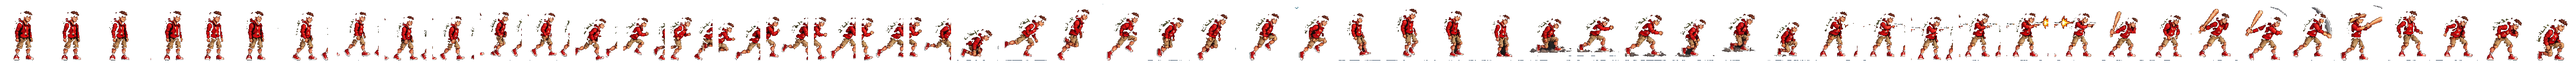
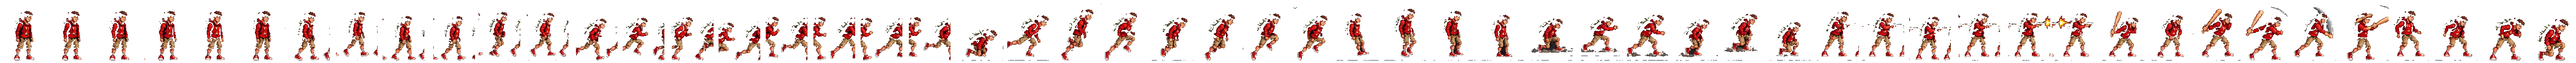
Add files via upload

diff --git a/index.html b/index.html
@@ -21,7 +21,7 @@ html,body{margin:0;width:100%;height:100%;overflow:hidden;background:#07090d;fon
 #player{position:absolute;z-index:12;width:96px;height:128px;overflow:hidden;
 background-image:url('alter_master_sheet.png');background-size:5184px 128px;background-repeat:no-repeat;
 background-position:0 0;image-rendering:pixelated;transform-origin:50% 100%;
-filter:drop-shadow(0 7px 5px #000b);will-change:left,top,background-position}
+filter:drop-shadow(0 7px 5px #000b);will-change:left,top,background-position;transition:filter .08s linear}
 #player.faceL{transform:scaleX(-1)}
 #player.damage{filter:brightness(1.7) saturate(.4) drop-shadow(0 7px 5px #000b)}
 #shadow{position:absolute;z-index:9;width:50px;height:11px;border-radius:50%;background:#0007;filter:blur(2px)}
@@ -53,7 +53,7 @@ filter:drop-shadow(0 7px 5px #000b);will-change:left,top,background-position}
 <div id="radioBox"><b class="cyan">47.3 FM — RADIO ECO</b><br><br><span id="line">Segnali deboli...</span><div class="wave"></div></div>
 <div id="joy"><div class="stick" id="stick"></div></div>
 <button id="radio" class="btn">📻</button><button id="jump" class="btn">SALTO</button><button id="shoot" class="btn">SPARO</button><button id="hit" class="btn">MAZZA</button>
-<div id="tag">CITTÀ SENZA NOME &nbsp;|&nbsp; GIORNO ??? &nbsp;|&nbsp; STAY ON THE AIR &nbsp; <span id="ver">v0.9.3.1 MASTER HOTFIX</span></div>
+<div id="tag">CITTÀ SENZA NOME &nbsp;|&nbsp; GIORNO ??? &nbsp;|&nbsp; STAY ON THE AIR &nbsp; <span id="ver">v0.9.4 ALTER MOTION POLISH</span></div>
 </div>
 <script>
 const game=document.querySelector('#game'),P=document.querySelector('#player'),SH=document.querySelector('#shadow');
@@ -74,7 +74,17 @@ const anim={
 };
 let af=0,acc=0;
 function setFrame(c){c=Math.max(0,Math.min(47,Math.floor(c)));P.style.backgroundPositionX=(-CELL*c)+'px';P.style.backgroundPositionY='0px'}
-function setState(s,ms=0){if(state!==s){state=s;af=0;acc=0}if(ms)stateUntil=performance.now()+ms}
+function setState(s,ms=0){
+  if(state!==s){
+    const prev=state;
+    state=s; af=0; acc=0;
+    P.dataset.prev=prev;
+    P.classList.add('blend');
+    clearTimeout(P._blendTimer);
+    P._blendTimer=setTimeout(()=>P.classList.remove('blend'),70);
+  }
+  if(ms) stateUntil=performance.now()+ms;
+}if(ms)stateUntil=performance.now()+ms}
 function animate(dt,now){
  if(stateUntil&&now>stateUntil){
    stateUntil=0;
@@ -91,15 +101,30 @@ function animate(dt,now){
  setFrame(a.f[af]);
 }
 function plats(){let g=game.getBoundingClientRect();return[...document.querySelectorAll('.platform')].map(e=>{let r=e.getBoundingClientRect();return{x:r.left-g.left,y:r.top-g.top,w:r.width,h:r.height}})}
-function collide(prevY){onGround=false;let fp=prevY+H,f=py+H;for(let p of plats()){let ox=px+W*.68>p.x&&px+W*.32<p.x+p.w;if(ox&&vy>=0&&fp<=p.y+8&&f>=p.y){py=p.y-H;vy=0;onGround=true;if(state==='fall'||state==='jump')setState('land',300);break}}let floor=game.clientHeight*.88;if(py+H>floor){py=floor-H;vy=0;onGround=true}}
+function collide(prevY){onGround=false;let fp=prevY+H,f=py+H;for(let p of plats()){let ox=px+W*.68>p.x&&px+W*.32<p.x+p.w;if(ox&&vy>=0&&fp<=p.y+8&&f>=p.y){py=p.y-H;vy=0;onGround=true;if(state==='fall'||state==='jump')setState('land',250);break}}let floor=game.clientHeight*.88;if(py+H>floor){py=floor-H;vy=0;onGround=true}}
 function update(now){let dt=Math.min((now-last)/1000,.032);last=now;
- if(!stateUntil||!['shoot','bat','damage','land'].includes(state)){vx=joyDir*MOVE;if(joyDir)face=joyDir}else vx*=.8;
+ if(!stateUntil||!['shoot','bat','damage','land'].includes(state)){
+   const target=joyDir*MOVE;
+   const accel=joyDir ? 1350 : 1900;
+   const diff=target-vx;
+   const step=Math.sign(diff)*Math.min(Math.abs(diff),accel*dt);
+   vx+=step;
+   if(joyDir)face=joyDir;
+ }else vx*=Math.pow(.18,dt);
  if(jumpQueued&&onGround&&!stateUntil){vy=JUMP;onGround=false;setState('jump');jumpQueued=false}else jumpQueued=false;
  let prevY=py;px+=vx*dt;py+=vy*dt;vy+=GRAV*dt;
  let min=65,max=game.clientWidth*.50;if(px<min)px=min;if(px>max){world+=px-max;px=max}
  collide(prevY);
- if(!stateUntil){if(!onGround)setState(vy<-120?'jump':vy<120?'air':'fall');else if(Math.abs(vx)>150)setState('run');else if(Math.abs(vx)>8)setState('walk');else setState('idle')}
- P.style.left=px+'px';P.style.top=py+'px';P.classList.toggle('faceL',face<0);
+ if(!stateUntil){
+   if(!onGround) setState(vy<-140?'jump':vy<100?'air':'fall');
+   else{
+     const sp=Math.abs(vx);
+     if(sp>175) setState('run');
+     else if(sp>22) setState('walk');
+     else setState('idle');
+   }
+ }
+ P.style.left=Math.round(px)+'px';P.style.top=Math.round(py)+'px';P.classList.toggle('faceL',face<0);
  SH.style.left=(px+W*.24)+'px';SH.style.top=(py+H-5)+'px';SH.style.opacity=onGround?'.7':'.2';
  /* FIX: move only background image, never the layer element itself */
  F.style.backgroundPositionX=(-world*.10)+'px';M.style.backgroundPositionX=(-world*.30)+'px';R.style.backgroundPositionX=(-world*.66)+'px';
@@ -111,8 +136,8 @@ J.addEventListener('touchstart',e=>{e.preventDefault();move(e)},{passive:false})
 document.querySelector('#jump').addEventListener('touchstart',e=>{e.preventDefault();jumpQueued=true},{passive:false});
 function muzzle(){let m=document.createElement('div');m.className='muzzle';m.style.left=(px+(face>0?W-5:-18))+'px';m.style.top=(py+55)+'px';game.appendChild(m);setTimeout(()=>m.remove(),80)}
 function bullet(){let b=document.createElement('div');b.className='projectile';let bx=px+(face>0?W-4:-12),by=py+62,t0=performance.now(),lt=t0;b.style.left=bx+'px';b.style.top=by+'px';game.appendChild(b);function go(t){let dt=Math.min((t-lt)/1000,.03);lt=t;bx+=face*760*dt;b.style.left=bx+'px';if(t-t0<1200&&bx>-30&&bx<game.clientWidth+30)requestAnimationFrame(go);else b.remove()}requestAnimationFrame(go)}
-document.querySelector('#shoot').addEventListener('touchstart',e=>{e.preventDefault();if(ammo<=0||stateUntil)return;ammo--;document.querySelector('#ammo').textContent=ammo+'/12';setState('shoot',340);muzzle();bullet()},{passive:false});
-document.querySelector('#hit').addEventListener('touchstart',e=>{e.preventDefault();if(stateUntil)return;setState('bat',380);let fx=document.createElement('div');fx.className='hitfx';fx.style.left=(px+(face>0?W-4:-46))+'px';fx.style.top=(py+38)+'px';game.appendChild(fx);fx.animate([{transform:'scale(.3)',opacity:1},{transform:'scale(1.3)',opacity:0}],{duration:280});setTimeout(()=>fx.remove(),290)},{passive:false});
+document.querySelector('#shoot').addEventListener('touchstart',e=>{e.preventDefault();if(ammo<=0||stateUntil)return;ammo--;document.querySelector('#ammo').textContent=ammo+'/12';setState('shoot',320);muzzle();bullet()},{passive:false});
+document.querySelector('#hit').addEventListener('touchstart',e=>{e.preventDefault();if(stateUntil)return;setState('bat',360);let fx=document.createElement('div');fx.className='hitfx';fx.style.left=(px+(face>0?W-4:-46))+'px';fx.style.top=(py+38)+'px';game.appendChild(fx);fx.animate([{transform:'scale(.3)',opacity:1},{transform:'scale(1.3)',opacity:0}],{duration:280});setTimeout(()=>fx.remove(),290)},{passive:false});
 let ro=false,li=0,lines=["Segnali deboli... ma sei ancora lì?","Finché ascolti, non sei solo.","Qualcuno trasmette ancora.","Alter... resta sulla frequenza."];
 document.querySelector('#radio').addEventListener('touchstart',e=>{e.preventDefault();ro=!ro;document.querySelector('#radioBox').style.display=ro?'block':'none';if(ro)document.querySelector('#line').textContent=lines[li++%lines.length]},{passive:false});
 if('serviceWorker'in navigator)navigator.serviceWorker.register('./sw.js');init();

diff --git a/sw.js b/sw.js
@@ -1,4 +1,4 @@
-const C='eco-v0931-master-hotfix';
+const C='eco-v094-alter-motion-polish';
 const A=['./','./index.html','./manifest.json','./layer_far.png','./layer_mid.png','./layer_fore.png','./alter_master_sheet.png'];
 self.addEventListener('install',e=>{self.skipWaiting();e.waitUntil(caches.open(C).then(c=>c.addAll(A)))});
 self.addEventListener('activate',e=>e.waitUntil(Promise.all([
